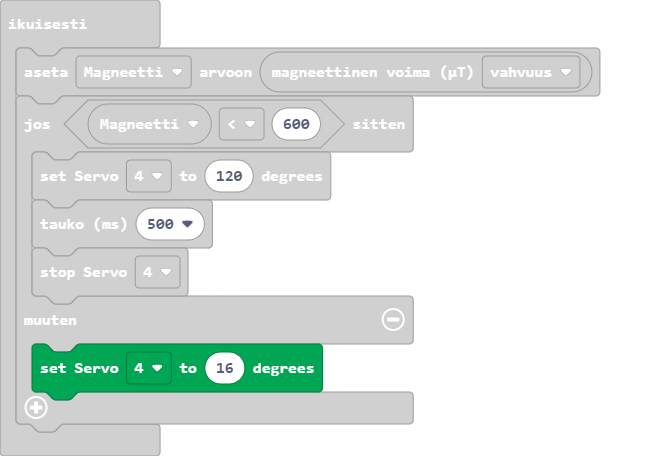
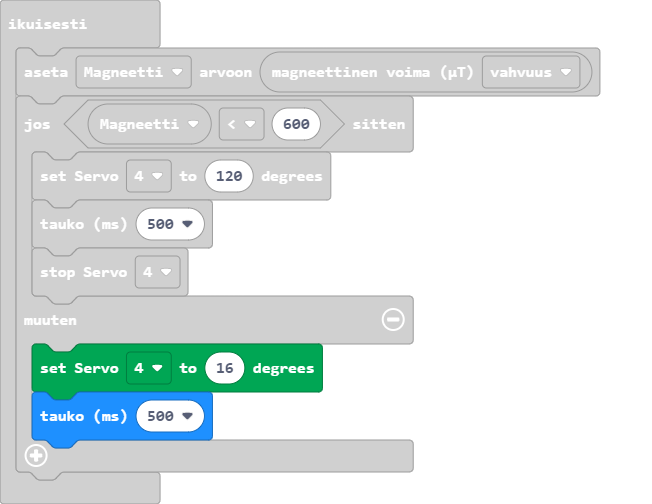
Päivitys main.blocks, main.ts

Changed region(s): [[0.0307, 0.0921, 0.9202, 0.9518], [0.0, 0.0307, 0.1534, 0.0614]]

diff --git a/main.ts b/main.ts
@@ -7,5 +7,6 @@ basic.forever(function () {
         Kitronik_Robotics_Board.servoStop(Kitronik_Robotics_Board.Servos.Servo4)
     } else {
         Kitronik_Robotics_Board.servoWrite(Kitronik_Robotics_Board.Servos.Servo4, 16)
+        basic.pause(500)
     }
 })
